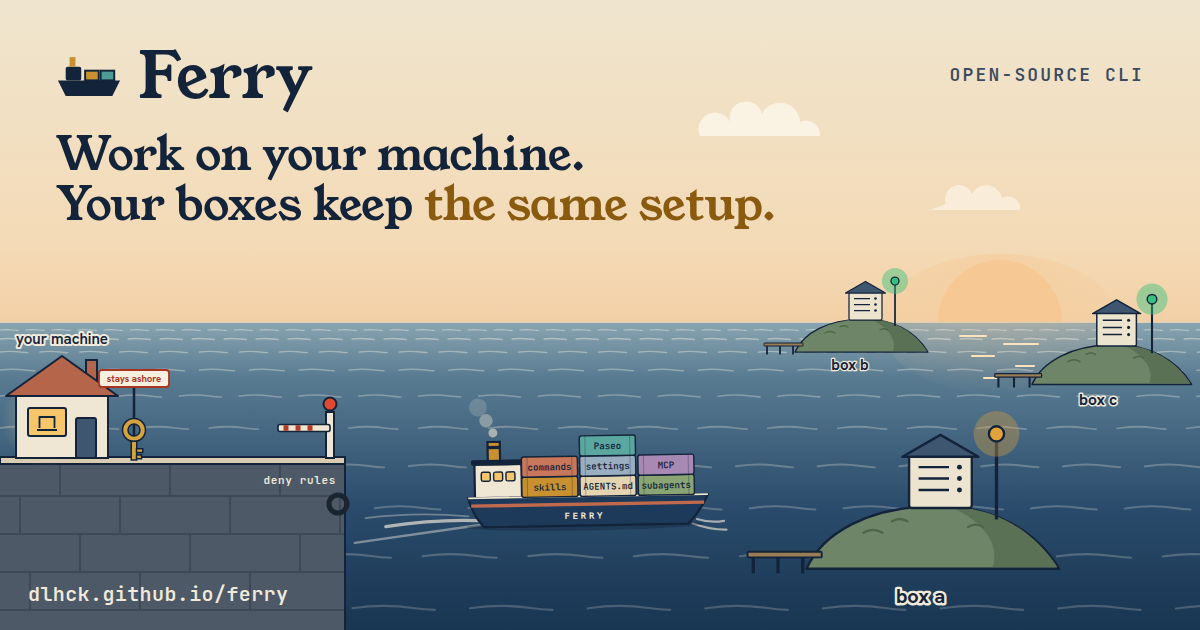
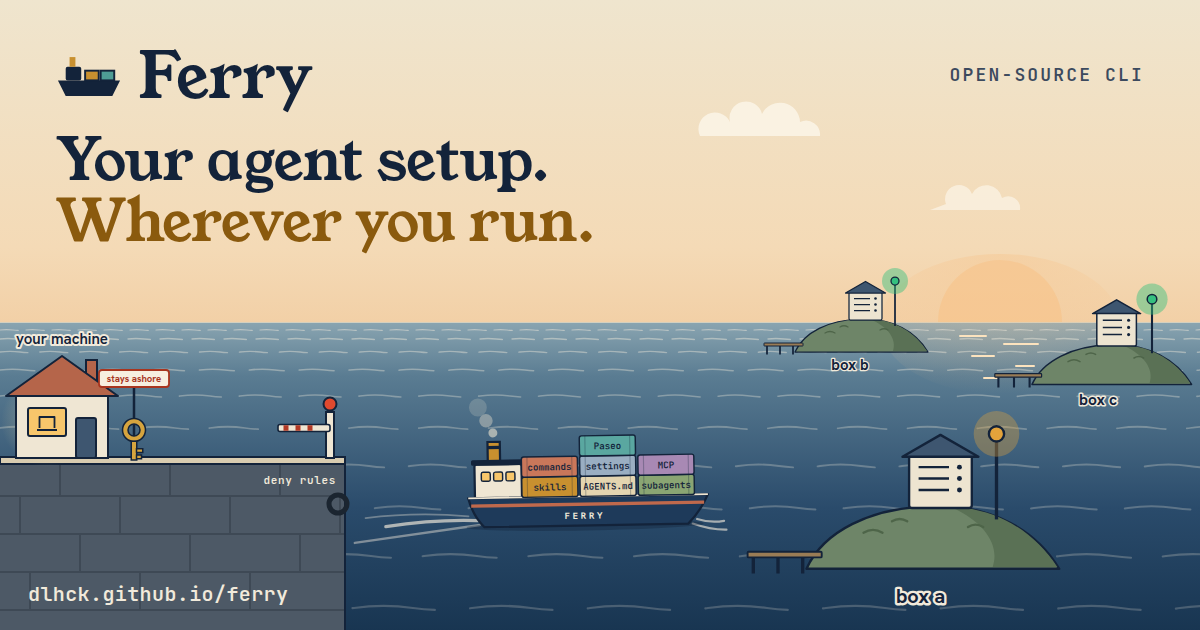
feat(docs): lead the landing page with the developer benefit
Change the hero to "Your agent setup. Wherever you run." Add a benefits
section after the hero for sync, remote previews, moving projects and
logins. Use literal labels next to the figure. Update the meta
descriptions and the social card to match.

Changed region(s): [[0.0308, 0.2111, 0.6475, 0.3921]]

diff --git a/docs/index.html b/docs/index.html
@@ -4,22 +4,22 @@
 <meta charset="utf-8">
 <meta name="viewport" content="width=device-width, initial-scale=1">
 <title>Ferry: keep your agent setup in sync with your Linux boxes</title>
-<meta name="description" content="Ferry is an open-source CLI. It keeps the agent setup of your machine in sync with the Linux boxes where remote agents run. Logins never leave the machine that has them.">
+<meta name="description" content="Run agents on your laptop or a remote Linux box with the setup you already use. Ferry keeps your skills, instructions, remote MCP servers and supported settings in sync. Logins stay on the machine that has them.">
 <link rel="canonical" href="https://dlhck.github.io/ferry/">
 <meta property="og:type" content="website">
 <meta property="og:site_name" content="Ferry">
 <meta property="og:url" content="https://dlhck.github.io/ferry/">
 <meta property="og:title" content="Ferry: keep your agent setup in sync with your Linux boxes">
-<meta property="og:description" content="Ferry keeps the agent setup of your machine in sync with the Linux boxes where remote agents run. Logins never leave the machine that has them.">
+<meta property="og:description" content="Run agents on your laptop or a remote Linux box with the setup you already use. Ferry keeps your skills, instructions, remote MCP servers and supported settings in sync. Logins stay on the machine that has them.">
 <meta property="og:image" content="https://dlhck.github.io/ferry/og.png">
 <meta property="og:image:width" content="1200">
 <meta property="og:image:height" content="630">
-<meta property="og:image:alt" content="Ferry. Work on your machine. Your boxes keep the same setup. An illustration of a ferry that carries labelled cargo from a harbor to three island boxes, while a key stays on the quay.">
+<meta property="og:image:alt" content="Ferry. Your agent setup. Wherever you run. An illustration of a ferry that carries labelled cargo from a harbor to three island boxes, while a key stays on the quay.">
 <meta name="twitter:card" content="summary_large_image">
 <meta name="twitter:title" content="Ferry: keep your agent setup in sync with your Linux boxes">
-<meta name="twitter:description" content="Ferry keeps the agent setup of your machine in sync with the Linux boxes where remote agents run. Logins never leave the machine that has them.">
+<meta name="twitter:description" content="Run agents on your laptop or a remote Linux box with the setup you already use. Ferry keeps your skills, instructions, remote MCP servers and supported settings in sync. Logins stay on the machine that has them.">
 <meta name="twitter:image" content="https://dlhck.github.io/ferry/og.png">
-<meta name="twitter:image:alt" content="Ferry. Work on your machine. Your boxes keep the same setup. An illustration of a ferry that carries labelled cargo from a harbor to three island boxes, while a key stays on the quay.">
+<meta name="twitter:image:alt" content="Ferry. Your agent setup. Wherever you run. An illustration of a ferry that carries labelled cargo from a harbor to three island boxes, while a key stays on the quay.">
 <meta name="theme-color" content="#F1EADB">
 <link rel="icon" href="favicon-32.png" sizes="32x32" type="image/png">
 <link rel="icon" href="favicon.svg" type="image/svg+xml">
@@ -80,10 +80,12 @@ img{max-width:100%;height:auto}
 @media (max-width:720px){.top nav .opt{display:none}}
 
 /* hero */
-.hero{display:grid;grid-template-columns:minmax(0,1.25fr) minmax(0,1fr);gap:clamp(1.5rem,4vw,4rem);align-items:end;padding:clamp(2rem,6vw,4.5rem) 0 clamp(1.5rem,3vw,2.5rem)}
+.hero{display:grid;grid-template-columns:minmax(0,1.25fr) minmax(0,1fr);gap:clamp(1.5rem,4vw,4rem);align-items:center;padding:clamp(2rem,6vw,4.5rem) 0 clamp(1.5rem,3vw,2.5rem)}
 h1,h2,h3{font-family:var(--display);font-weight:400;letter-spacing:-.01em;margin:0}
-h1{font-size:clamp(2.5rem,6.2vw,4.9rem);line-height:1.02;text-wrap:balance}
+h1{font-size:clamp(2.5rem,5.6vw,4.3rem);line-height:1.02;text-wrap:balance}
 h1 em{font-style:normal;color:var(--brass)}
+.hero > div:first-child{container-type:inline-size}
+.hero h1{font-size:clamp(2rem,10.2cqi,4.3rem)}
 h2{font-size:clamp(1.9rem,4vw,3rem);line-height:1.08;text-wrap:balance}
 h3{font-size:1.35rem;line-height:1.2}
 .lede{font-size:1.15rem;line-height:1.55;color:var(--ink-2);margin:0 0 1.4rem;max-width:34rem}
@@ -212,6 +214,21 @@ section.band{padding:clamp(4rem,9vw,7.5rem) 0 0}
 .also{display:grid;grid-template-columns:minmax(0,1.1fr) minmax(0,1fr);gap:1.5rem;margin-top:2rem}
 .also p{margin:.4rem 0 0;color:var(--ink-2)}
 @media (max-width:860px){.also{grid-template-columns:minmax(0,1fr)}}
+
+/* benefits */
+section.benefits{padding-top:clamp(2.5rem,6vw,4.5rem)}
+.benefits + .voyage{margin-top:clamp(2.5rem,6vw,4.5rem)}
+.gains{list-style:none;margin:0;padding:0;display:grid;grid-template-columns:repeat(4,minmax(0,1fr));gap:1.2rem clamp(1.2rem,3vw,2.2rem)}
+.gains li{display:flex;flex-direction:column;align-items:flex-start;min-width:0}
+.gains svg{width:40px;height:40px;padding:7px;border-radius:10px;background:var(--paper-2);color:var(--ink);margin-bottom:.9rem}
+.gains h3{font-size:1.22rem;line-height:1.22;text-wrap:balance}
+.gains p{margin:.5rem 0 .7rem;color:var(--ink-2);font-size:.98rem}
+.gain-cmd{margin-top:auto;text-decoration:none}
+.gain-cmd code{font:600 .8rem/1.3 var(--mono);color:var(--brass);background:var(--paper-2);padding:.25rem .5rem;border-radius:6px;display:inline-block}
+.gain-cmd:hover code{background:var(--ink);color:var(--paper)}
+.lede-em{margin-top:-.4rem}
+@media (max-width:1000px){.gains{grid-template-columns:repeat(2,minmax(0,1fr))}}
+@media (max-width:560px){.gains{grid-template-columns:minmax(0,1fr)}.gains svg{margin-bottom:.6rem}}
 
 /* agents register */
 .register{list-style:none;margin:0;padding:0;display:grid;grid-template-columns:repeat(2,minmax(0,1fr));gap:1rem}
@@ -379,10 +396,11 @@ button.mi[aria-disabled=true]{color:rgba(0,0,0,.4);background:none}
 <main id="main">
 <section class="hero wrap" aria-labelledby="hero-title">
   <div>
-    <h1 id="hero-title">Work on your machine. Your boxes keep <em>the same setup.</em></h1>
+    <h1 id="hero-title">Your agent setup.<br> <em>Wherever you run.</em></h1>
   </div>
   <div>
-    <p class="lede">Ferry keeps the agent setup of your machine in sync with the Linux boxes where remote agents run. You change a skill here, and each box gets it. <strong>Logins stay on the machine that has them.</strong></p>
+    <p class="lede">Run agents on your laptop or a remote Linux box with the skills, instructions, remote MCP servers and supported settings you already use. Ferry keeps them in sync as you work, so every box gets your setup without you rebuilding it by hand.</p>
+    <p class="lede lede-em"><strong>Change a skill locally. Your remote agents get it too.</strong></p>
     <div class="install">
       <div class="tabs" role="tablist" aria-label="Install with">
         <button class="tab" type="button" role="tab" id="tab-curl" aria-selected="true" aria-controls="panel-curl">curl</button>
@@ -400,6 +418,39 @@ button.mi[aria-disabled=true]{color:rgba(0,0,0,.4);background:none}
     </div>
     <p class="hero-links"><a href="https://github.com/dlhck/ferry">Source on GitHub</a><a href="https://www.npmjs.com/package/@dlhck/ferry">npm package</a><a href="https://github.com/dlhck/ferry/releases">Releases</a></p>
   </div>
+</section>
+
+<section class="band wrap benefits" id="why" aria-labelledby="why-title">
+  <div class="sec-head">
+    <h2 id="why-title">Stop setting up the same workflow on every machine.</h2>
+    <p>You've taught your agents how you work. Moving to a remote box should carry that work with you.</p>
+  </div>
+  <ul class="gains">
+    <li>
+      <svg viewBox="0 0 32 32" aria-hidden="true"><path d="M6 12a10 10 0 0 1 18-3M26 20a10 10 0 0 1-18 3" fill="none" stroke="currentColor" stroke-width="2.2" stroke-linecap="round"/><path d="M24 3.5V9h-5.5M8 28.5V23h5.5" fill="none" stroke="currentColor" stroke-width="2.2" stroke-linecap="round" stroke-linejoin="round"/></svg>
+      <h3>Configure once. Keep every box in sync.</h3>
+      <p>Update your skills and instructions on your machine. Ferry's watcher sends those changes to your boxes automatically.</p>
+      <a class="gain-cmd" href="#cmd-watch"><code>ferry watch install</code></a>
+    </li>
+    <li>
+      <svg viewBox="0 0 32 32" aria-hidden="true"><rect x="3" y="6" width="26" height="18" rx="2.5" fill="none" stroke="currentColor" stroke-width="2.2"/><path d="M3 11h26M11 29h10M16 24v5" fill="none" stroke="currentColor" stroke-width="2.2" stroke-linecap="round"/><circle cx="7" cy="8.6" r="1" fill="currentColor"/><circle cx="10.4" cy="8.6" r="1" fill="currentColor"/></svg>
+      <h3>Open remote previews in your local browser.</h3>
+      <p>Forward remote dev server ports to localhost, with automatic forwarding for servers announced through Ferry.</p>
+      <a class="gain-cmd" href="#cmd-tunnel"><code>ferry tunnel --follow</code></a>
+    </li>
+    <li>
+      <svg viewBox="0 0 32 32" aria-hidden="true"><path d="M4 11h20M18 5l6 6-6 6M28 21H8M14 15l-6 6 6 6" fill="none" stroke="currentColor" stroke-width="2.2" stroke-linecap="round" stroke-linejoin="round"/></svg>
+      <h3>Continue your project on another machine.</h3>
+      <p>Move a Git project to a box and bring it back, including untracked files.</p>
+      <a class="gain-cmd" href="#cmd-move"><code>ferry move</code></a>
+    </li>
+    <li>
+      <svg viewBox="0 0 32 32" aria-hidden="true"><circle cx="11" cy="11" r="6.5" fill="none" stroke="currentColor" stroke-width="2.2"/><path d="M15.6 15.6L28 28M23 23l-3.5 3.5M26 20l-3.5 3.5" fill="none" stroke="currentColor" stroke-width="2.2" stroke-linecap="round"/></svg>
+      <h3>Logins stay where they are.</h3>
+      <p>Ferry starts logins on the box and never copies a token.</p>
+      <a class="gain-cmd" href="#cmd-auth"><code>ferry auth</code></a>
+    </li>
+  </ul>
 </section>
 
 <figure class="voyage wrap-wide" id="voyage">
@@ -549,7 +600,7 @@ button.mi[aria-disabled=true]{color:rgba(0,0,0,.4);background:none}
       <g id="dots"></g>
       <g id="cargo"></g>
     </svg>
-    <button type="button" class="plate-tag" aria-expanded="false" aria-controls="voyage-cap">Fig. 1 &middot; ferry sync</button>
+    <button type="button" class="plate-tag" aria-expanded="false" aria-controls="voyage-cap">ferry sync, simplified</button>
   </div>
 
   <div class="deck">
@@ -560,11 +611,11 @@ button.mi[aria-disabled=true]{color:rgba(0,0,0,.4);background:none}
         <button class="term-btn" type="button" id="btn-replay"><svg viewBox="0 0 12 12" aria-hidden="true"><path d="M3 2l7 4-7 4z" fill="currentColor"/></svg><span>Run ferry sync</span></button>
       </div>
       <pre aria-hidden="true"><span class="ln"><span class="p">$ </span><span id="typed">ferry sync</span><span class="caret" id="caret"></span></span><span class="ln c" data-at="1.5"># check the carried files against the deny rules</span><span class="ln deny" data-at="5.7"># the key stays ashore, logins never leave this machine</span><span class="ln c" data-at="9.6"># publish the snapshot to your private repo</span><span class="ln ok" data-at="13.4"># box a pulls the snapshot and links it</span><span class="ln ok" data-at="17.0"># box b pulls the snapshot and links it</span><span class="ln ok" data-at="20.0"># box c pulls the snapshot and links it</span></pre>
-      <p class="term-note" aria-hidden="true">Narrated voyage, not literal output</p>
+      <p class="term-note" aria-hidden="true">Narration, not real output</p>
     </div>
 
     <div class="manifest">
-      <h3 id="manifest-title">Cargo manifest <span>Point at an item</span></h3>
+      <h3 id="manifest-title">What syncs <span>Select an item</span></h3>
       <ul class="chips" aria-labelledby="manifest-title">
         <li><button class="chip" type="button" aria-pressed="false" aria-controls="manifest-note" data-cargo="skills" style="--c:#C8902F"><i></i>skills</button></li>
         <li><button class="chip" type="button" aria-pressed="false" aria-controls="manifest-note" data-cargo="agents" style="--c:#E4D5B0"><i></i>AGENTS.md</button></li>
@@ -575,7 +626,7 @@ button.mi[aria-disabled=true]{color:rgba(0,0,0,.4);background:none}
         <li><button class="chip" type="button" aria-pressed="false" aria-controls="manifest-note" data-cargo="paseo" style="--c:#5AA7A0"><i></i>Paseo</button></li>
         <li><button class="chip ashore" type="button" aria-pressed="false" aria-controls="manifest-note" data-cargo="keys"><i><svg viewBox="0 0 14 14" aria-hidden="true"><path d="M3 3l8 8M11 3l-8 8" stroke="currentColor" stroke-width="2"/></svg></i>logins and keys</button></li>
       </ul>
-      <p class="manifest-note" id="manifest-note" aria-live="polite">Seven kinds of cargo board. One kind never does.</p>
+      <p class="manifest-note" id="manifest-note" aria-live="polite">Seven kinds of setup sync. Logins and keys never do.</p>
     </div>
   </div>
 
@@ -718,7 +769,7 @@ button.mi[aria-disabled=true]{color:rgba(0,0,0,.4);background:none}
     <div>
       <h2 id="daily-title">After setup, you keep working here</h2>
     </div>
-    <p>Install the watcher once. Edits on your machine reach the boxes without a command. The rest of the list is for the days you need it.</p>
+    <p>The commands you use after setup, with the details.</p>
   </div>
 
   <div class="daily">
@@ -765,11 +816,11 @@ button.mi[aria-disabled=true]{color:rgba(0,0,0,.4);background:none}
     </figure>
 
     <ol class="log">
-      <li><span class="cmd">ferry watch install</span><p>Syncs each change after one second. It runs as a launchd or systemd user service.</p></li>
+      <li id="cmd-watch"><span class="cmd">ferry watch install</span><p>Syncs each change after one second. It runs as a launchd or systemd user service.</p></li>
       <li><span class="cmd">ferry status --brief</span><p>Shows only what needs action. Plain <code>ferry status</code> checks the link, the snapshot, the logins and the tools.</p></li>
       <li><span class="cmd">ferry box add <span class="arg">&lt;name&gt;</span></span><p>Adds another box. <code>sync</code>, <code>status</code> and <code>update</code> act on all boxes, or on one with <code>--box</code>.</p></li>
-      <li><span class="cmd">ferry tunnel <span class="arg">3000</span></span><p>Opens a box port on 127.0.0.1 on your machine. Run <code>ferry expose</code> on the box and <code>ferry tunnel --follow</code> here, and each dev server port opens on its own.</p></li>
-      <li><span class="cmd">ferry move <span class="arg">&lt;path&gt;</span> --to-box <span class="arg">&lt;name&gt;</span></span><p>Carries a git project to a box, untracked files included. <code>--from-box</code> brings it back.</p></li>
+      <li id="cmd-tunnel"><span class="cmd">ferry tunnel <span class="arg">3000</span></span><p>Opens a box port on 127.0.0.1 on your machine. Run <code>ferry expose</code> on the box and <code>ferry tunnel --follow</code> here, and each dev server port opens on its own.</p></li>
+      <li id="cmd-move"><span class="cmd">ferry move <span class="arg">&lt;path&gt;</span> --to-box <span class="arg">&lt;name&gt;</span></span><p>Carries a git project to a box, untracked files included. <code>--from-box</code> brings it back.</p></li>
       <li><span class="cmd">ferry integrations enable paseo</span><p>Runs the Paseo daemon on a box and carries your Paseo agent profiles, plugins, provider definitions, metadata model preferences, shared system instructions and terminal profiles.</p></li>
       <li><span class="cmd">[tools.<span class="arg">&lt;id&gt;</span>]</span><p>Each tool in the config has a version policy: <code>"operator"</code>, <code>"latest"</code> or an exact version. The menu bar and <code>ferry status</code> report drift.</p></li>
       <li><span class="cmd">ferry skills add dlhck/ferry --skill ferry</span><p>Adds the Ferry skill. It tells your agents how to work with Ferry on both machines. For example, an agent on the box does not edit a file that Ferry manages, because the next sync resets it.</p></li>
@@ -826,7 +877,7 @@ button.mi[aria-disabled=true]{color:rgba(0,0,0,.4);background:none}
     </div>
   </div>
 
-  <div class="auth">
+  <div class="auth" id="cmd-auth">
     <code>ferry auth claude</code>
     <p>Starts a login on the box. You finish it in a browser on your machine. The token stays on the box.</p>
   </div>
@@ -1216,9 +1267,9 @@ button.mi[aria-disabled=true]{color:rgba(0,0,0,.4);background:none}
     subagents: '<strong>Claude subagents.</strong> Carried with the snapshot and linked on each box.',
     commands: '<strong>Claude commands.</strong> Carried with the snapshot and linked on each box.',
     settings: '<strong>Some Claude and Codex settings.</strong> Ferry carries selected settings. Whole settings files stay on your machine.',
-    mcp: '<strong>Remote MCP servers.</strong> The server definitions board. MCP logins happen on each box, and the menu bar shows which ones need action.',
+    mcp: '<strong>Remote MCP servers.</strong> The server definitions sync. MCP logins happen on each box, and the menu bar shows which ones need action.',
     paseo: '<strong>Paseo.</strong> With <code>ferry integrations enable paseo</code>, Ferry runs the Paseo daemon on a box and carries agent profiles, plugins, provider definitions, metadata model preferences, shared system instructions and terminal profiles. They go to the box directly, not through the snapshot.',
-    keys: '<strong>Logins and keys stay ashore.</strong> Logins, credential files, tokens, API keys and .env files never leave the machine that has them. Deny rules stop a sync that would carry one.'
+    keys: '<strong>Logins and keys never sync.</strong> Logins, credential files, tokens, API keys and .env files never leave the machine that has them. Deny rules stop a sync that would carry one.'
   };
   const note = $('#manifest-note');
   const defaultNote = note.innerHTML;

diff --git a/docs/og.html b/docs/og.html
@@ -19,7 +19,7 @@ html,body{margin:0;width:1200px;height:630px;overflow:hidden;background:#F1EADB}
 .copy{position:absolute;left:56px;top:44px;width:760px}
 .brand{display:flex;align-items:center;gap:16px;font:400 64px/1 'Young Serif',Georgia,serif;letter-spacing:-.01em}
 .brand svg{width:66px;height:43px}
-h1{margin:22px 0 0;font:400 46px/1.08 'Young Serif',Georgia,serif;letter-spacing:-.01em}
+h1{margin:22px 0 0;font:400 58px/1.05 'Young Serif',Georgia,serif;letter-spacing:-.01em}
 h1 em{font-style:normal;color:#8A5A0E}
 .url{position:absolute;left:28px;bottom:26px;font:600 20px/1 'JetBrains Mono',monospace;color:#F1EADB;letter-spacing:.02em}
 .tag{position:absolute;right:56px;top:66px;font:600 18px/1 'JetBrains Mono',monospace;letter-spacing:.12em;text-transform:uppercase;color:#3C4A5E}
@@ -165,7 +165,7 @@ h1 em{font-style:normal;color:#8A5A0E}
     </svg>
   <div class="copy">
     <div class="brand"><svg viewBox="0 0 34 22" aria-hidden="true"><path d="M1 13h32l-4 8H5z" fill="#13233A"/><rect x="5" y="6" width="8" height="7" rx="1" fill="#13233A"/><rect x="7" y="1" width="3" height="5" fill="#C8902F"/><rect x="15" y="8" width="7" height="5" fill="#C8902F" stroke="#13233A"/><rect x="23" y="8" width="7" height="5" fill="#4E9C95" stroke="#13233A"/></svg>Ferry</div>
-    <h1>Work on your machine.<br>Your boxes keep <em>the same setup.</em></h1>
+    <h1>Your agent setup.<br><em>Wherever you run.</em></h1>
   </div>
   <div class="url">dlhck.github.io/ferry</div>
   <div class="tag">Open-source CLI</div>
